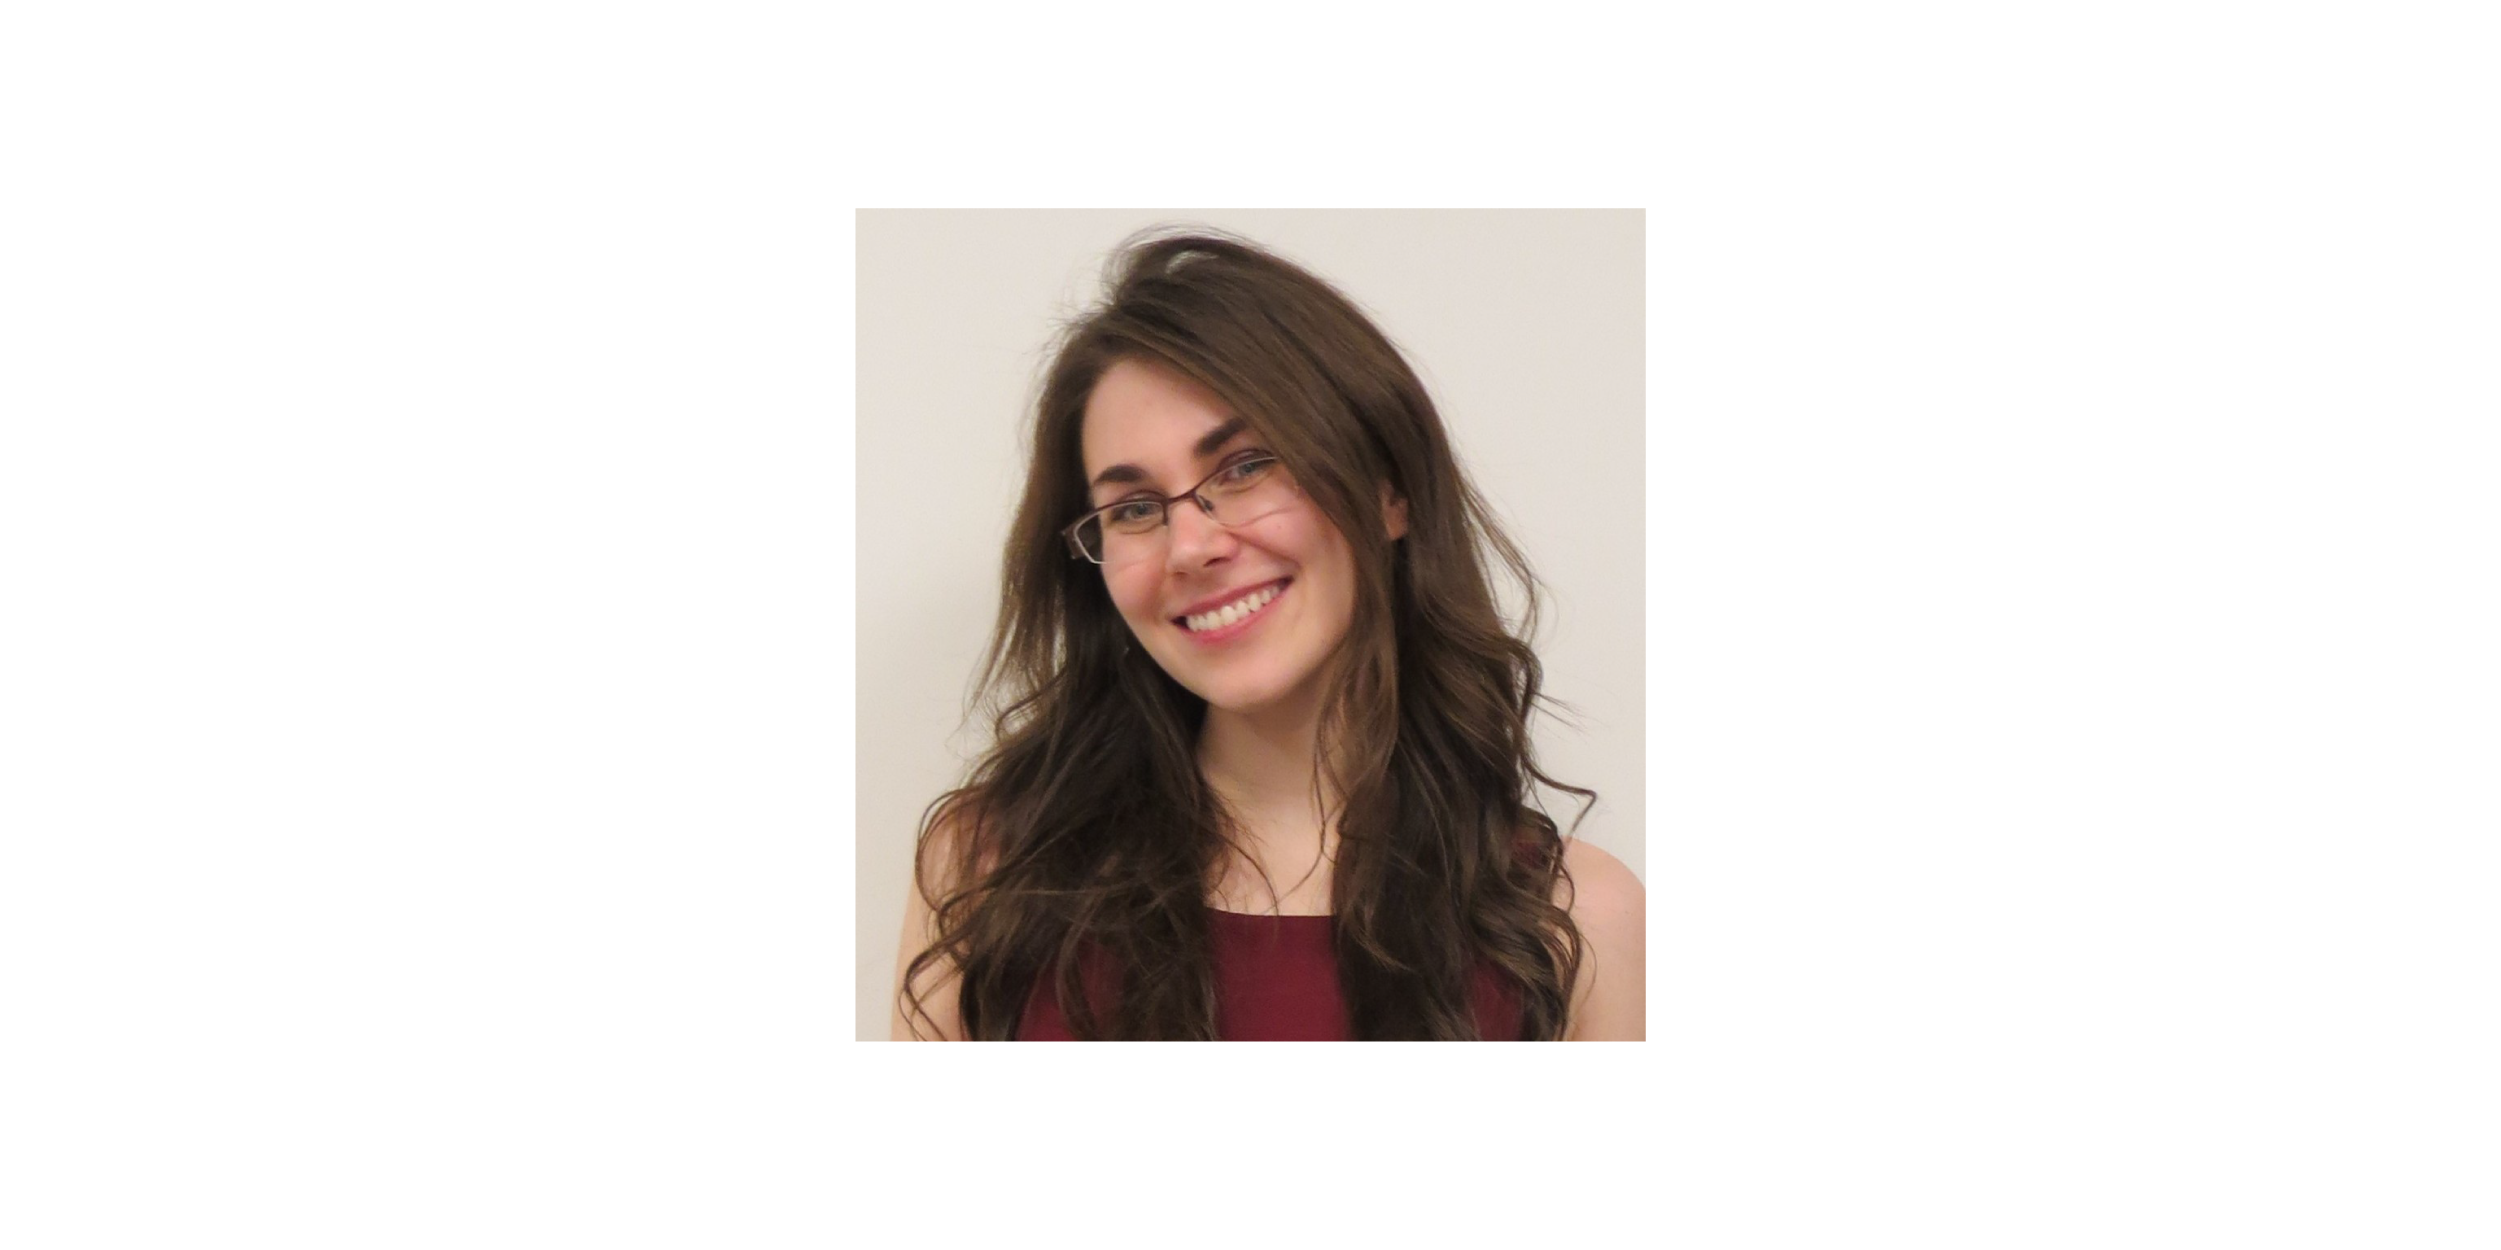
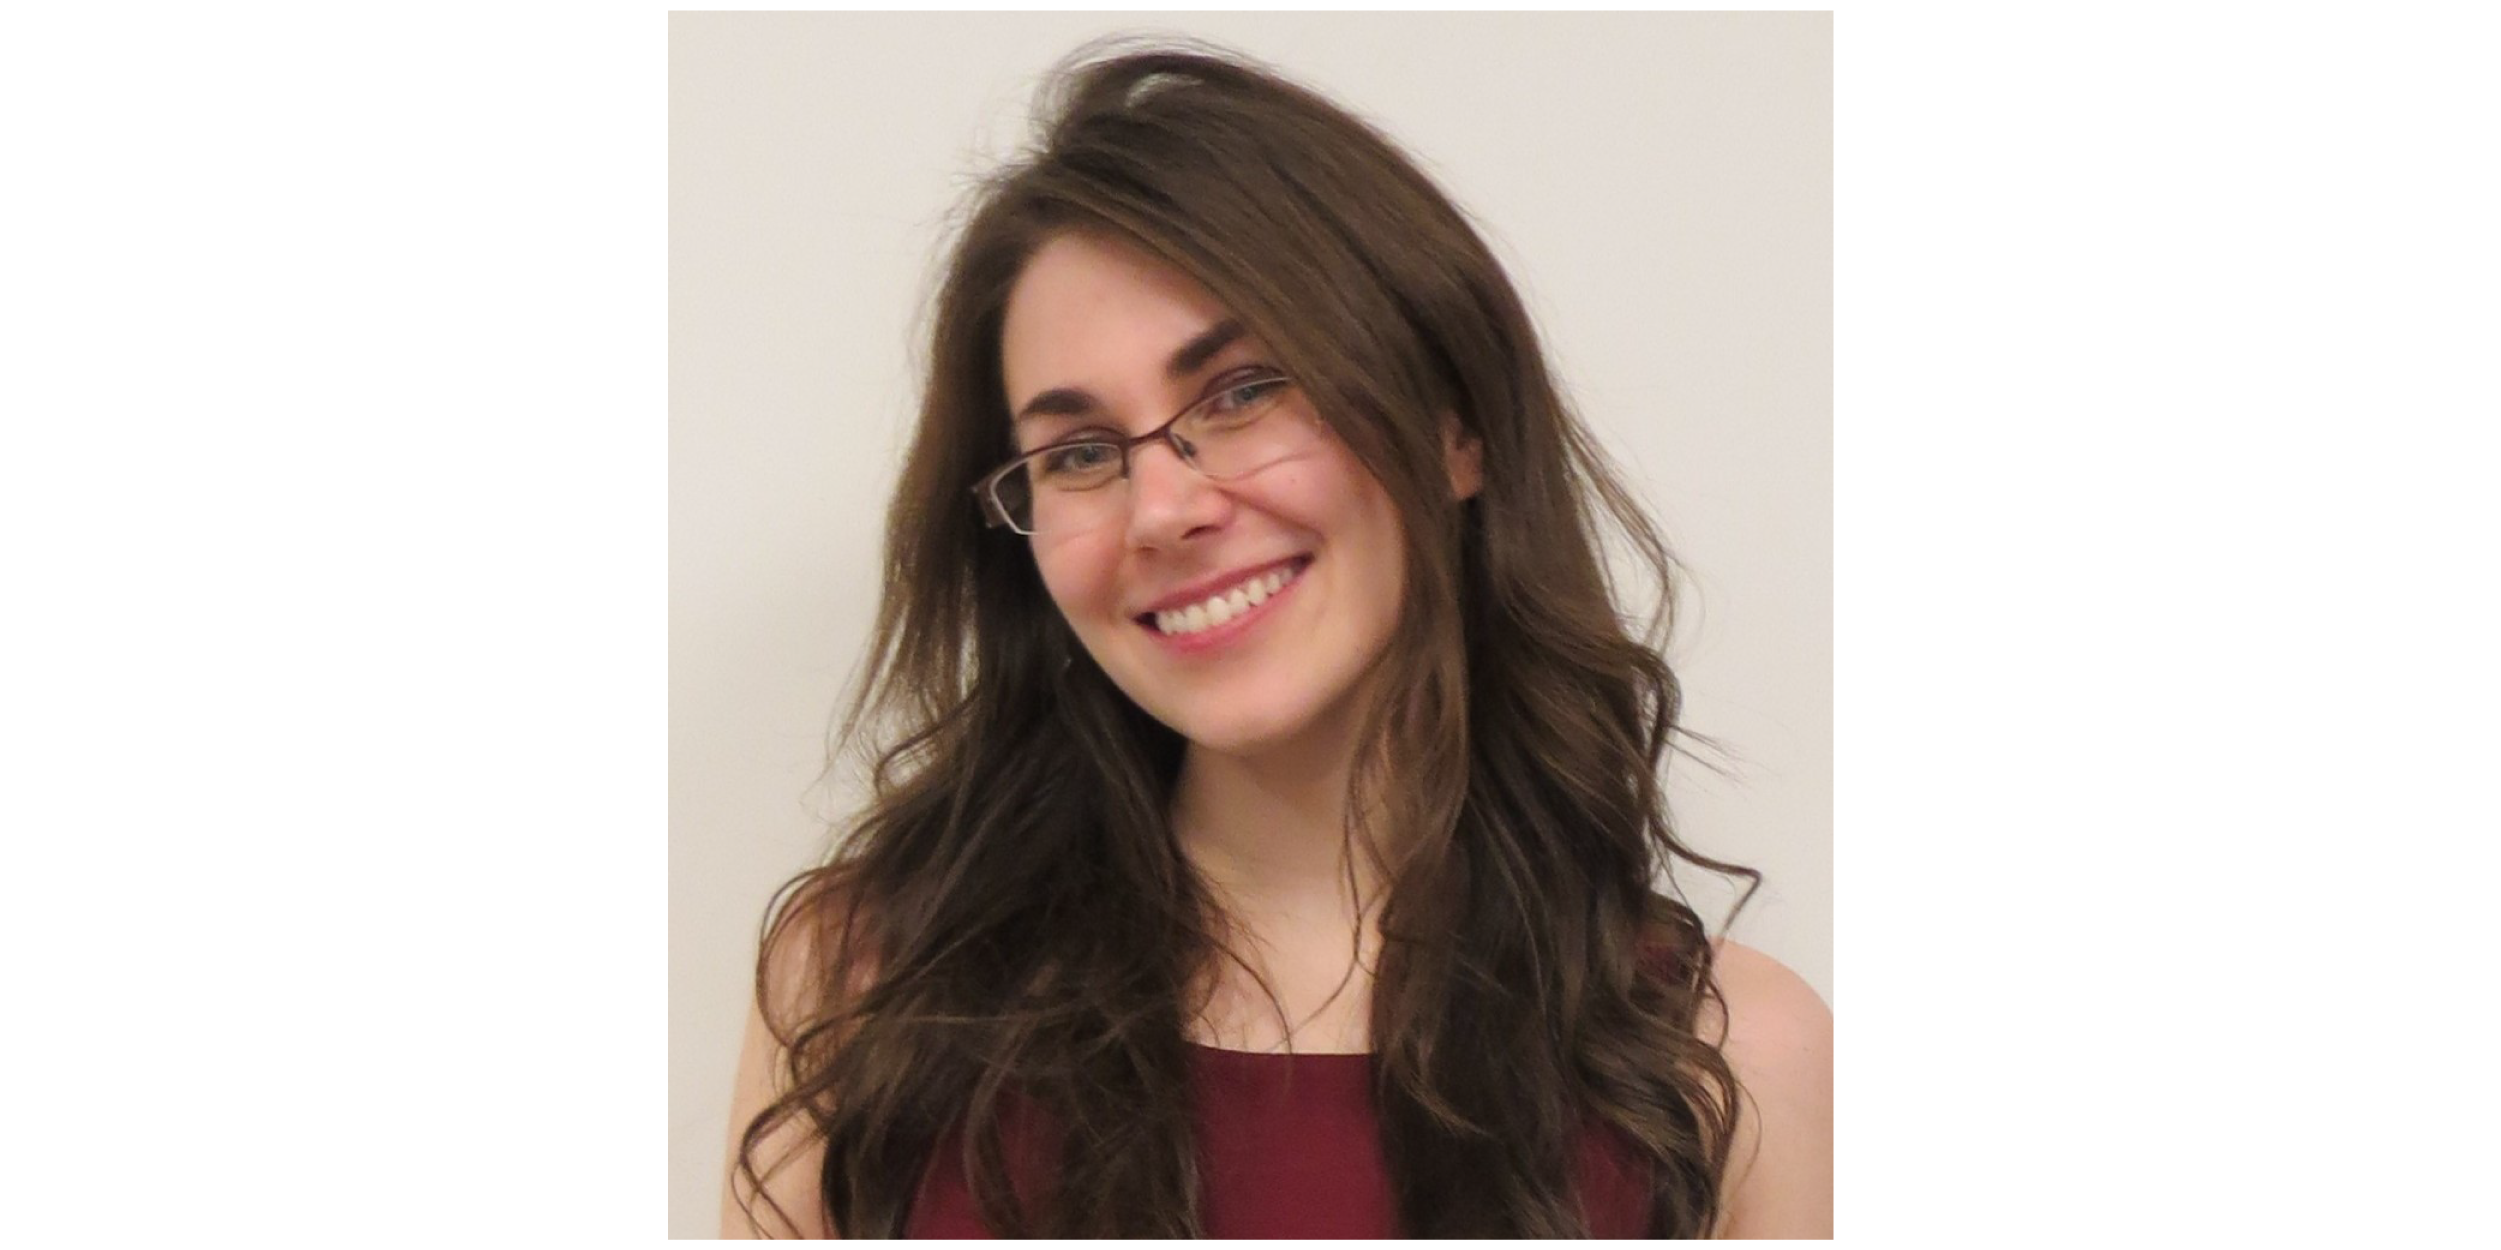
updated more artist bio photos

diff --git a/_open-lab-notebook/08-graphic-novel-thesis.md b/_open-lab-notebook/08-graphic-novel-thesis.md
@@ -106,7 +106,7 @@ Melissa Jedrysiak is a scientific illustrator of Filipina and Polish descent. Sh
 
 Website: [https://www.melissajedrysiak.com/](https://www.melissajedrysiak.com/)
 
-{% include figure image_path="/assets/images/openLabNotebook/TheFirstVIRS/MonicaKeszler.jpg" alt="Monica Keszler" caption="Monica Keszler: Chapter 3 title page artist" %}
+{% include figure image_path="/assets/images/openLabNotebook/TheFirstVIRS/MonicaKeszler.png" alt="Monica Keszler" caption="Monica Keszler: Chapter 3 title page artist" %}
 Monica Keszler is a recent chemical engineering graduate from Northeastern University and a freelance educational comic artist. She contributes quarterly pedagogical comics to the journal of Chemical Engineering Education and has spent several years collaborating and developing educational comics with students and faculty at Northeastern University. She has also written and illustrated her own children's book, *Kira Kiwi, How Will School Be?*, focusing on the importance of diversity and acceptance. She works full-time in materials engineering research and development and hopes to one day join the pursuit of creating sustainable plastic alternatives.
 
 Website: [http://willowescapee.wixsite.com/artportfolio](http://willowescapee.wixsite.com/artportfolio)
@@ -127,7 +127,7 @@ Miguel Soler Montellano, was born in Granada, Spain in 1983. He studied fine art
 
 Website: [https://www.instagram.com/0kavango/?hl=en](https://www.instagram.com/0kavango/?hl=en)
 
-{% include figure image_path="/assets/images/openLabNotebook/TheFirstVIRS/priyanka_profile.jpg" alt="Priyanka Das Rajkakati" caption="Priyanka Das Rajkakati: Chapter 6 title page artist" %}
+{% include figure image_path="/assets/images/openLabNotebook/TheFirstVIRS/PriyankaRajkakati.png" alt="Priyanka Das Rajkakati" caption="Priyanka Das Rajkakati: Chapter 6 title page artist" %}
 An Aerospace engineer by profession, and an artist at heart, I am a Space geek who loves challenging projects that mix Art and Science. Currently pursuing a PhD in Satellite Navigation Technology, I also dedicate a part of my waking hours to artistic endeavours and commissions so that it doesn't just remain a hobby, overshadowed by math equations (which are also aesthetic in a way).
 
 Website: [https://www.behance.net/priancart](https://www.behance.net/priancart)
